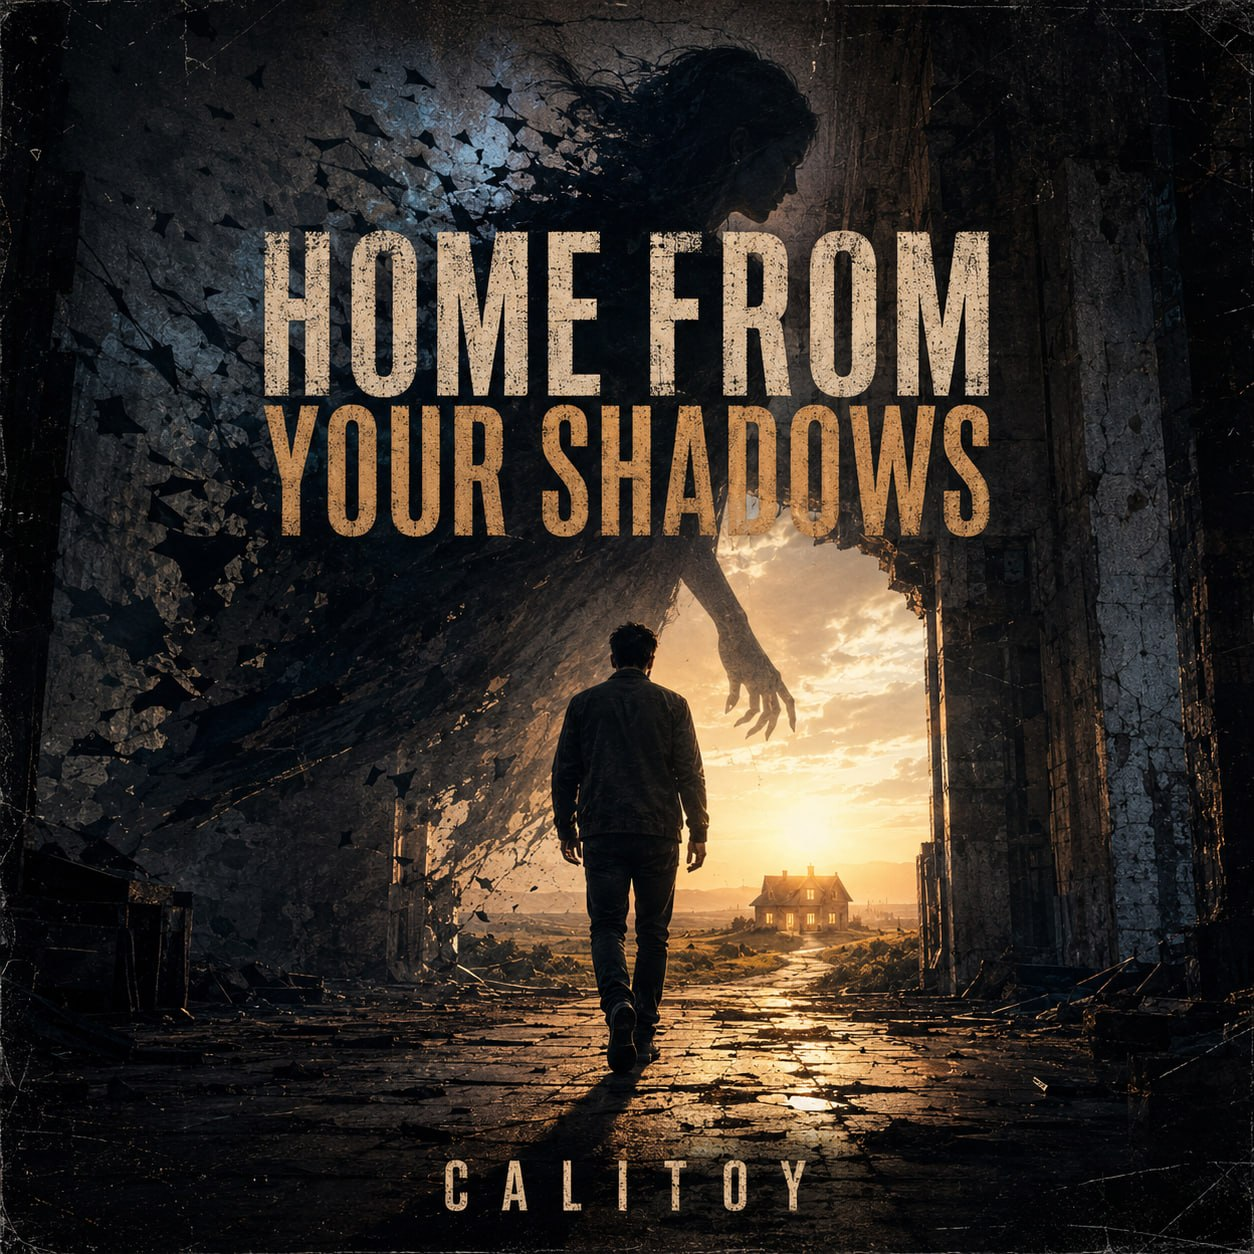
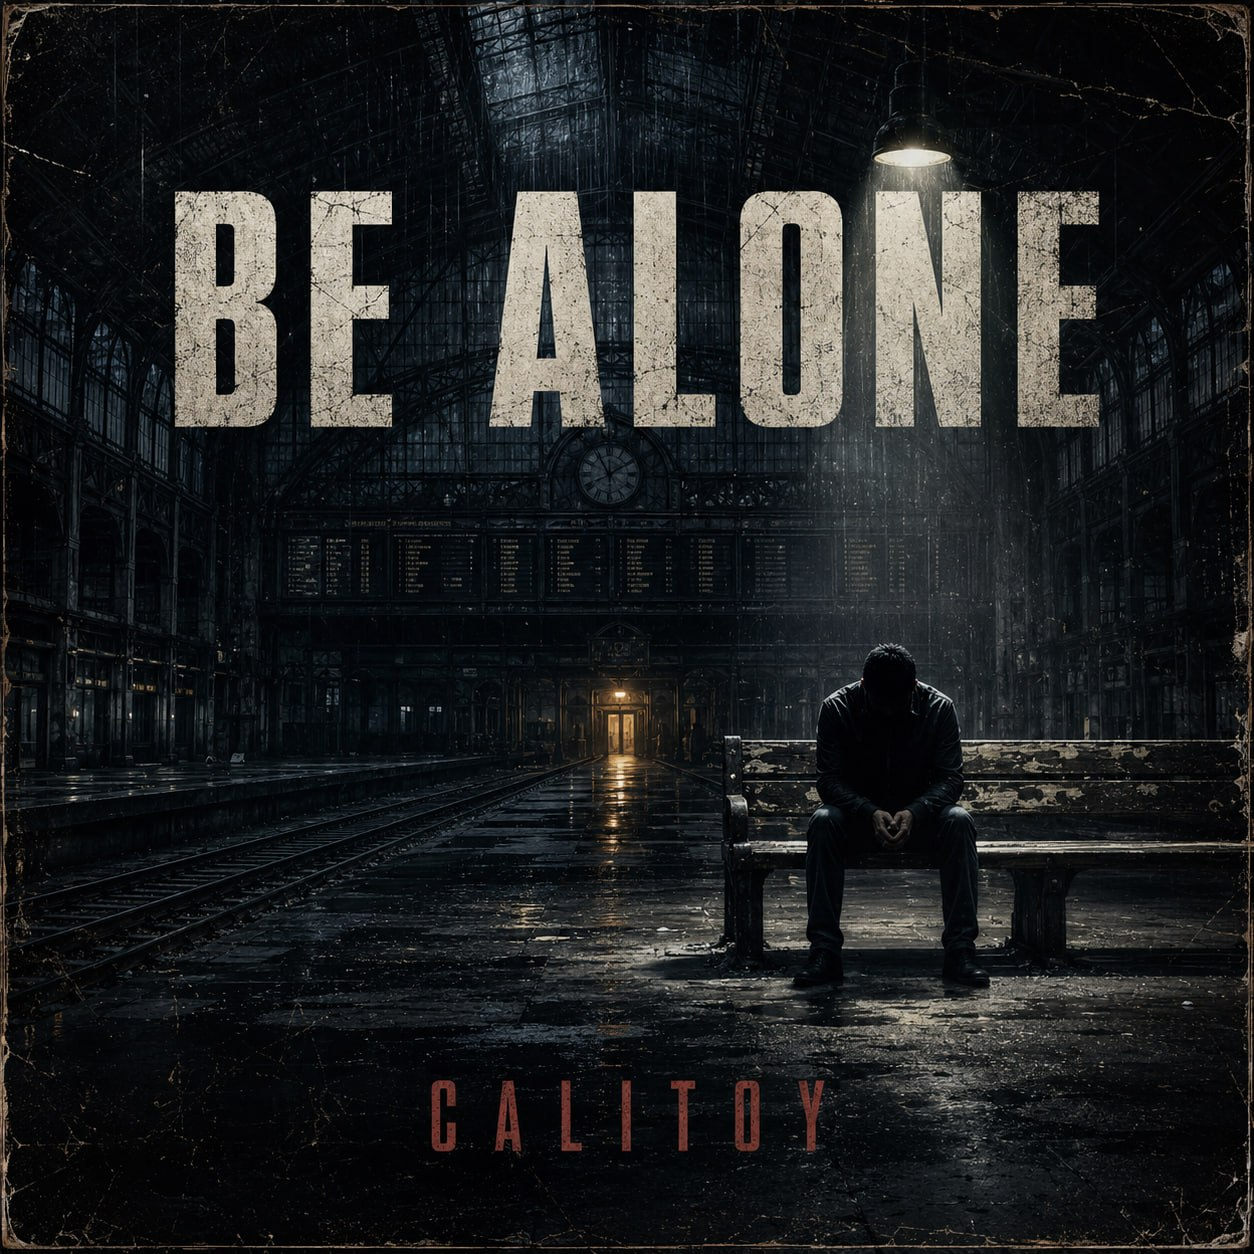
Revert "Feature Home From Your Shadows on XCalitoy site"
This reverts commit deb7a65d596f1f59cf53b6d9782c32e834cfa0e6.

diff --git a/index.html b/index.html
@@ -4,18 +4,18 @@
     <meta charset="UTF-8" />
     <meta name="viewport" content="width=device-width, initial-scale=1.0" />
     <title>XCalitoy | Debut Album by Joseph Calitoy</title>
-    <meta name="description" content="XCalitoy is the debut album from Joseph Calitoy — a dark, cinematic release led by Home From Your Shadows and built around isolation, grief, pressure, and survival." />
-    <meta name="keywords" content="XCalitoy, Joseph Calitoy, Home From Your Shadows, debut album, Be Alone, Half Gone, Inflicted, Ain't Proud, Kill Me Now, new album" />
+    <meta name="description" content="XCalitoy is the debut album from Joseph Calitoy — a dark, cinematic release built around isolation, grief, pressure, and survival. Explore the album world, visuals, and release updates." />
+    <meta name="keywords" content="XCalitoy, Joseph Calitoy, debut album, Be Alone, Half Gone, Inflicted, Ain't Proud, Kill Me Now, new album" />
     <link rel="canonical" href="https://josephcalitoy.com/" />
     <meta property="og:type" content="website" />
     <meta property="og:site_name" content="Joseph Calitoy" />
     <meta property="og:title" content="XCalitoy | Debut Album by Joseph Calitoy" />
-    <meta property="og:description" content="Step into the world of XCalitoy, the debut album from Joseph Calitoy, led by Home From Your Shadows." />
+    <meta property="og:description" content="Step into the world of XCalitoy, the debut album from Joseph Calitoy." />
     <meta property="og:url" content="https://josephcalitoy.com/" />
     <meta property="og:image" content="https://josephcalitoy.com/assets/joseph-calitoy-social.jpg?v=20260720b" />
     <meta name="twitter:card" content="summary_large_image" />
     <meta name="twitter:title" content="XCalitoy | Debut Album by Joseph Calitoy" />
-    <meta name="twitter:description" content="A dark, cinematic debut album world from Joseph Calitoy, led by Home From Your Shadows." />
+    <meta name="twitter:description" content="A dark, cinematic debut album world from Joseph Calitoy." />
     <meta name="twitter:image" content="https://josephcalitoy.com/assets/joseph-calitoy-social.jpg?v=20260720b" />
     <link rel="preconnect" href="https://fonts.googleapis.com" />
     <link rel="preconnect" href="https://fonts.gstatic.com" crossorigin />
@@ -34,7 +34,7 @@
         "image": "https://josephcalitoy.com/assets/joseph-calitoy-social.jpg?v=20260720b",
         "url": "https://josephcalitoy.com/",
         "genre": ["Alternative", "Dark Pop", "Cinematic Rock"],
-        "description": "XCalitoy is the debut album from Joseph Calitoy, led by Home From Your Shadows and built around stark visuals, emotional pressure, and survival themes."
+        "description": "XCalitoy is the debut album from Joseph Calitoy, built around stark visuals, emotional pressure, and survival themes."
       }
     </script>
   </head>
@@ -64,7 +64,7 @@
             <p class="eyebrow">Joseph Calitoy presents</p>
             <h1>XCalitoy is the debut album.</h1>
             <p class="lede">
-              Led by <strong>Home From Your Shadows</strong>, XCalitoy opens as a dark, cinematic album world built around pressure, isolation, grief, defiance, and survival.
+              A dark, cinematic album world built around pressure, isolation, grief, defiance, and survival. This site now exists to introduce the debut era of XCalitoy first.
             </p>
             <div class="hero-actions">
               <a class="button button--primary" href="#visuals">Enter the album world</a>
@@ -72,17 +72,16 @@
             </div>
             <ul class="hero-points">
               <li>Debut album campaign and visual rollout</li>
-              <li>Home From Your Shadows leading the reveal</li>
+              <li>Five revealed title pieces from the album world</li>
               <li>Built around Joseph Calitoy as artist, not consultant</li>
             </ul>
           </div>
           <aside class="hero-visual">
-            <img src="assets/xcalitoy-home-from-your-shadows.jpg" alt="Home From Your Shadows artwork from XCalitoy." class="hero-visual__image" />
+            <img src="assets/xcalitoy-be-alone.jpg" alt="XCalitoy artwork for Be Alone." class="hero-visual__image" />
             <div class="hero-card hero-card--photo">
               <p class="hero-card__label">Debut album</p>
               <h2>XCalitoy</h2>
               <ul>
-                <li>Home From Your Shadows</li>
                 <li>Be Alone</li>
                 <li>Half Gone</li>
                 <li>Inflicted</li>
@@ -104,7 +103,6 @@
             </p>
           </div>
           <div class="cards pricing-grid--offers photo-grid">
-            <img src="assets/xcalitoy-home-from-your-shadows.jpg" alt="Home From Your Shadows artwork from XCalitoy." class="photo-grid__image" />
             <img src="assets/xcalitoy-be-alone.jpg" alt="Be Alone artwork from XCalitoy." class="photo-grid__image" />
             <img src="assets/xcalitoy-half-gone.jpg" alt="Half Gone artwork from XCalitoy." class="photo-grid__image" />
             <img src="assets/xcalitoy-inflicted.jpg" alt="Inflicted artwork from XCalitoy." class="photo-grid__image" />
@@ -118,36 +116,31 @@
         <div class="container">
           <div class="section-heading">
             <p class="eyebrow">Songs in the rollout</p>
-            <h2>Six revealed titles from the debut era.</h2>
+            <h2>Five revealed titles from the debut era.</h2>
           </div>
           <div class="cards pricing-grid pricing-grid--offers">
             <article class="card pricing-card pricing-card--featured">
               <p class="pricing-card__label">01</p>
-              <h3>Home From Your Shadows</h3>
-              <p>The lead visual statement: haunted, cinematic, and built like the doorway into the full album world.</p>
-            </article>
-            <article class="card pricing-card">
-              <p class="pricing-card__label">02</p>
               <h3>Be Alone</h3>
               <p>The opening emotional posture: stripped down, cold, and heavy with isolation.</p>
             </article>
             <article class="card pricing-card">
-              <p class="pricing-card__label">03</p>
+              <p class="pricing-card__label">02</p>
               <h3>Half Gone</h3>
               <p>A portrait of emotional erosion, late-night damage, and the aftermath of being emptied out.</p>
             </article>
             <article class="card pricing-card">
-              <p class="pricing-card__label">04</p>
+              <p class="pricing-card__label">03</p>
               <h3>Inflicted</h3>
               <p>Confrontation, shadow, and consequence — the interior violence of carrying what was done and what was chosen.</p>
             </article>
             <article class="card pricing-card">
-              <p class="pricing-card__label">05</p>
+              <p class="pricing-card__label">04</p>
               <h3>Ain't Proud</h3>
               <p>The album's broken confession: bruised pride, collapse, and the cost of still standing.</p>
             </article>
             <article class="card pricing-card">
-              <p class="pricing-card__label">06</p>
+              <p class="pricing-card__label">05</p>
               <h3>Kill Me Now</h3>
               <p>The most explosive title in the revealed set — urgency, pressure, and full emotional overload.</p>
             </article>